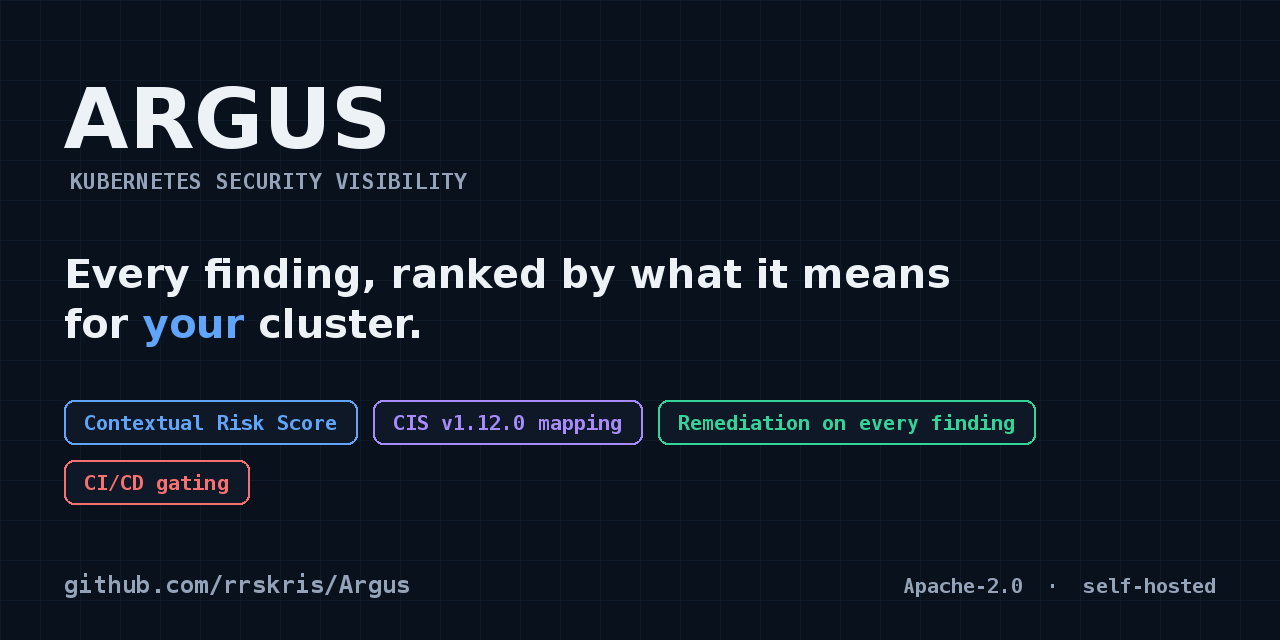
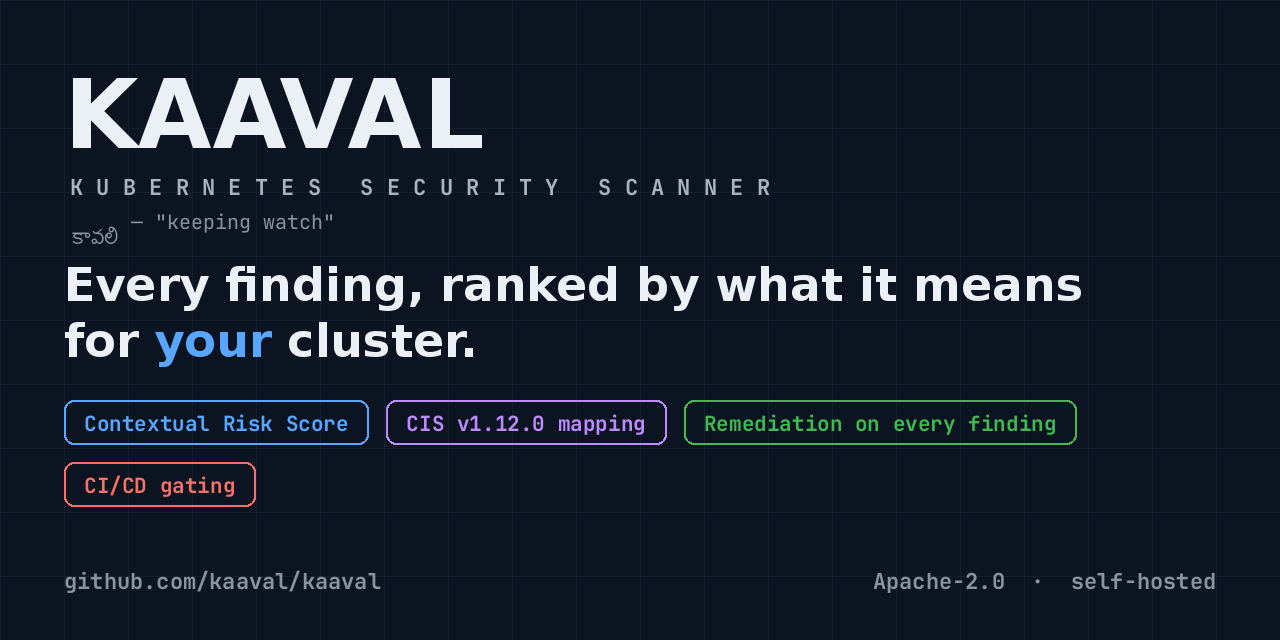
docs: adoption surface — quickstart paths, issue forms, hero GIF, Kaaval social card
- README: three-path quickstart (2-minute kind testbed via make setup-dev
  first, published-image CLI for CI second, compose dashboard third),
  Status table (shipped vs reserved), ADOPTERS call-to-action, hero GIF
  rendered from real scan output
- issue templates converted to YAML issue forms (validations, severity
  dropdown, version fields); blank issues off; private security
  reporting added as a contact link
- SELinux :z note in README + ci-integration (real Fedora footgun found
  during verification); ci-integration docker example uses the image
  entrypoint form
- social-preview card regenerated with Kaaval branding (same design)

diff --git a/README.md b/README.md
@@ -10,6 +10,8 @@
 
 > *Kaaval (కావల్) means "guard duty" — the act of keeping watch. Formerly known as Argus; renamed to avoid colliding with the long-running [openargus](https://openargus.org) network audit project.*
 
+![Kaaval scanning deliberately vulnerable RBAC and ranking findings by contextual risk](docs/assets/kaaval-scan.gif)
+
 Most scanners stop at detection: here's 800 CVEs, here's 50 risky RBAC bindings, good luck prioritizing them. Kaaval is built around a different principle — a finding is only useful once it's tied to *your* environment and comes with a concrete next step. Every finding, whether it's a CVE or an RBAC misconfiguration, is run through the same **Contextual Risk Score** engine and ranked by what actually matters to you, not a flat severity sort.
 
 ## What it does today
@@ -63,18 +65,41 @@ Key endpoints (full reference: [docs/api.md](docs/api.md)):
 - `GET|PUT /cve/context` — read/update your tenant's risk context (environment, data classification, compliance scope, exposure) that drives the Contextual Risk Score
 - `POST /rbac/scan`, `GET /rbac/scan/latest`, `GET /rbac/scan/latest/report.pdf` — scan the cluster's Roles/ClusterRoles/bindings for misconfigurations, fetch or export the result
 
-For pipelines there's also a headless CLI needing no server or database at all — run it straight from the published image (`ghcr.io/kaaval/kaaval`, no build):
-
-```bash
-docker run --rm -v "$PWD/k8s:/scan" ghcr.io/kaaval/kaaval \
-    python -m app.cli scan rbac --manifests /scan --fail-on-score 20
-```
-
-Or from source: `cd control-plane && python -m app.cli scan rbac --manifests ./k8s/ --fail-on-score 20`.
-
 Kaaval is fully open source under Apache-2.0 — no open-core split, no feature gates, no license tokens. Everything the project ships runs self-hosted, and it will stay that way: the project is being built toward CNCF vendor-neutrality standards.
 
 ## Quickstart
+
+### 1. See it work in under two minutes (throwaway cluster)
+
+You need Docker, [`kind`](https://kind.sigs.k8s.io/), `kubectl`, and Python 3.12:
+
+```bash
+git clone https://github.com/kaaval/kaaval && cd kaaval
+make setup-dev        # kind cluster preloaded with deliberately-vulnerable RBAC
+make scan             # findings ranked by contextual risk, remediation included
+make teardown-dev     # clean up
+```
+
+No cluster handy? `make scan-manifests` scans the fixture YAML directly — no
+Kubernetes at all.
+
+### 2. Scan your own manifests in CI (no server, no database)
+
+Straight from the published image, no build:
+
+```bash
+docker run --rm -v "$PWD/k8s:/scan" ghcr.io/kaaval/kaaval \
+    scan rbac --manifests /scan --fail-on-score 20
+```
+
+> On SELinux-enforcing hosts (Fedora, RHEL), add `:z` to the volume flag
+> (`-v "$PWD/k8s:/scan:z"`) or the container can't read the mount.
+
+There's also a [GitHub Action](docs/ci-integration.md) plus GitLab/Jenkins/Argo CD
+recipes, and gating on the *contextual* score means the same finding can block a
+production/PCI pipeline yet pass in dev.
+
+### 3. Full stack with the dashboard
 
 ```bash
 cp deploy/.env.example deploy/.env
@@ -91,6 +116,20 @@ docker compose -f deploy/docker-compose.yml logs control-plane | grep "Admin cre
 ```
 
 Dashboard: http://localhost:3000. API: http://localhost:8000.
+
+## Status
+
+| Component | State |
+|---|---|
+| `control-plane/` — CVE + RBAC scanning, contextual scoring, remediation, PDF, CLI | ✅ shipped, tested, in the published image |
+| `dashboard/` — Next.js UI | ✅ shipped |
+| `policies/kyverno/` — admission-time counterparts | ✅ shipped |
+| `deploy/helm/` | 🚧 planned ([#8](https://github.com/kaaval/kaaval/issues/8)) |
+| `agent/`, `cloud-scanner/` — Go engine | 📐 reserved skeletons, not functional (see their READMEs) |
+| `plugins/` — integration descriptors | 📐 reserved, no runtime |
+
+Where this is going: [ROADMAP.md](ROADMAP.md). **Using Kaaval?** Add yourself to
+[ADOPTERS.md](ADOPTERS.md) — adopter entries directly support the project's CNCF path.
 
 ## Development
 

diff --git a/docs/ci-integration.md b/docs/ci-integration.md
@@ -37,10 +37,14 @@ Or via the published container image (`ghcr.io/kaaval/kaaval` — no build, incl
 ```bash
 docker run --rm -v "$PWD/k8s:/scan" -v "$PWD/kaaval.yaml:/scan/kaaval.yaml" \
     ghcr.io/kaaval/kaaval \
-    python -m app.cli scan rbac --manifests /scan --context-file /scan/kaaval.yaml --fail-on-score 20
+    scan rbac --manifests /scan --context-file /scan/kaaval.yaml --fail-on-score 20
 ```
 
 Tags: `latest` (newest release), `vX.Y.Z` (pinned release), `edge` (tip of main).
+
+> **SELinux hosts (Fedora, RHEL, CentOS Stream):** add `:z` to each volume flag
+> (`-v "$PWD/k8s:/scan:z"`) or the container is denied read access to the mount
+> and the scan fails with a `PermissionError`.
 
 ### Flags
 
